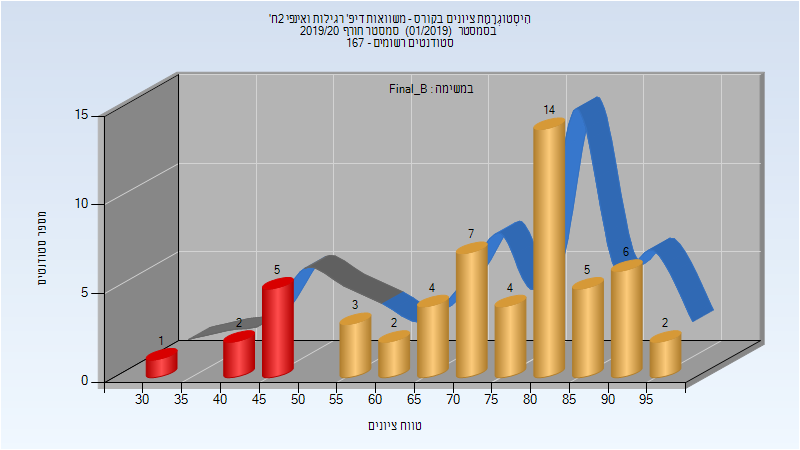
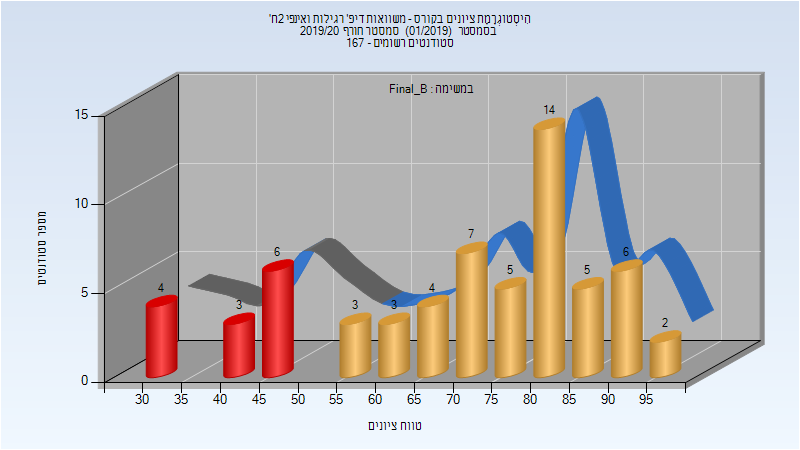
Deploy michael-maltsev/technion-histograms to github.com/michael-maltsev/technion-histograms.git:gh-pages

Changed region(s): [[0.1562, 0.5289, 0.4688, 0.8089], [0.4688, 0.5289, 0.6875, 0.7778], [0.6562, 0.4667, 0.7188, 0.56]]

diff --git a/104035/index.html b/104035/index.html
@@ -1215,13 +1215,13 @@
 </thead>
 <tbody>
 <tr>
-<td>55</td>
-<td>47/8</td>
-<td>85</td>
-<td>32</td>
+<td>62</td>
+<td>49/13</td>
+<td>79</td>
+<td>30</td>
 <td>96</td>
-<td>73.764</td>
-<td>76</td>
+<td>70.629</td>
+<td>75</td>
 </tr>
 </tbody>
 </table>

diff --git a/104035/README.md b/104035/README.md
@@ -380,7 +380,7 @@
 
 | סטודנטים | עברו/נכשלו | אחוז עוברים | ציון מינימלי | ציון מקסימלי | ממוצע | חציון |
 | ---- | ---- | ---- | ---- | ---- | ---- | ---- |
-| 55 | 47/8 | 85 | 32 | 96 | 73.764 | 76 |
+| 62 | 49/13 | 79 | 30 | 96 | 70.629 | 75 |
 
 ### סופי
 
